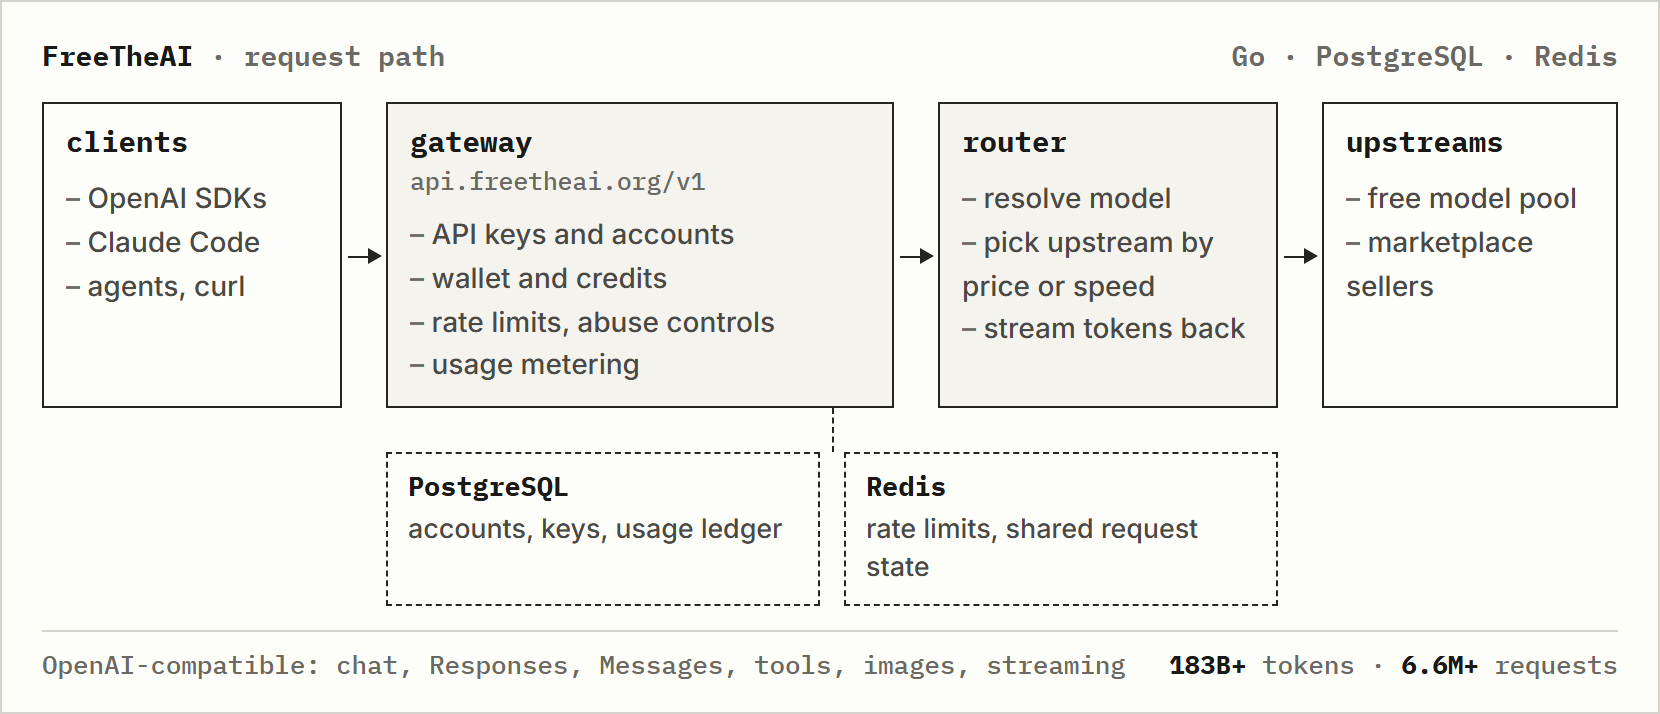
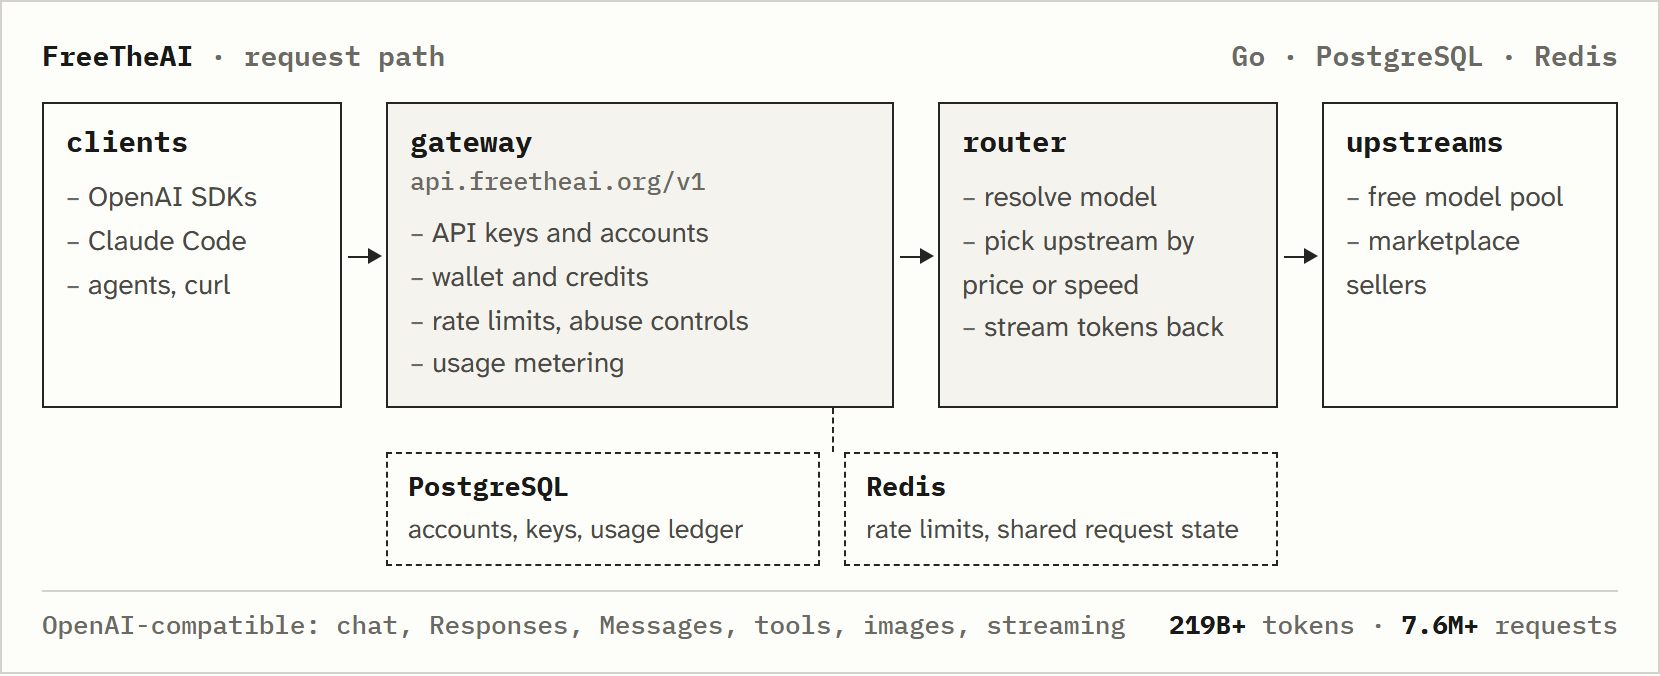
Tidy the profile README: photo header, project table, fresh numbers

diff --git a/assets/src/freetheai-diagram.html b/assets/src/freetheai-diagram.html
@@ -4,7 +4,7 @@
 <meta charset="utf-8">
 <link rel="preconnect" href="https://fonts.googleapis.com">
 <link rel="preconnect" href="https://fonts.gstatic.com" crossorigin>
-<link href="https://fonts.googleapis.com/css2?family=IBM+Plex+Mono:wght@400;500;600;700&family=Inter:wght@400;500;600;700&display=block" rel="stylesheet">
+<link href="https://fonts.googleapis.com/css2?family=IBM+Plex+Mono:wght@400;500;600;700&family=Atkinson+Hyperlegible+Next:wght@400;600&display=block" rel="stylesheet">
 <style>
   :root {
     --bg: #fdfdf9; --ink: #191918; --muted: #4a4945; --quiet: #6b6963;
@@ -18,7 +18,7 @@
   body { background: transparent; }
   .wrap {
     width: 830px; padding: 18px 20px 14px; background: var(--bg); color: var(--ink);
-    border: 1px solid var(--soft); font-family: "Inter", Arial, sans-serif;
+    border: 1px solid var(--soft); font-family: "Atkinson Hyperlegible Next", "Segoe UI", sans-serif;
   }
   .title { display: flex; justify-content: space-between; align-items: baseline;
     font: 600 14.0px/1.3 "IBM Plex Mono", Consolas, monospace; color: var(--quiet); }
@@ -29,7 +29,7 @@
   .box h3 { font: 700 14.6px/1.25 "IBM Plex Mono", Consolas, monospace; }
   .box .host { margin-top: 2px; font: 500 12.3px/1.3 "IBM Plex Mono", Consolas, monospace; color: var(--quiet); }
   .box ul { list-style: none; padding: 0; margin-top: 8px; }
-  .box li { font: 500 14.0px/1.55 "Inter", Arial, sans-serif; color: var(--muted); }
+  .box li { font: 500 14.0px/1.55 "Atkinson Hyperlegible Next", "Segoe UI", sans-serif; color: var(--muted); }
   .box li::before { content: "– "; color: var(--quiet); }
   .arrow { position: relative; }
   .arrow::before { content: ""; position: absolute; left: 3px; right: 6px; top: 50%; border-top: 1.5px solid var(--line); }
@@ -40,7 +40,7 @@
   .drop::before { content: ""; position: absolute; top: 0; left: 50%; height: 22px; border-left: 1.5px dashed var(--line); }
   .store { border: 1.5px dashed var(--line); padding: 8px 10px; }
   .store h4 { font: 700 13.4px/1.25 "IBM Plex Mono", Consolas, monospace; }
-  .store p { margin-top: 3px; font: 500 13.4px/1.45 "Inter", Arial, sans-serif; color: var(--muted); }
+  .store p { margin-top: 3px; font: 500 13.4px/1.45 "Atkinson Hyperlegible Next", "Segoe UI", sans-serif; color: var(--muted); }
   .foot { margin-top: 12px; padding-top: 8px; border-top: 1px solid var(--soft);
     display: flex; justify-content: space-between; font: 500 12.9px/1.4 "IBM Plex Mono", Consolas, monospace; color: var(--quiet); }
   .foot b { color: var(--ink); font-weight: 700; }

diff --git a/README.md b/README.md
@@ -1,72 +1,69 @@
+<img src="assets/vibhek-soni.jpg" align="right" width="190" alt="Photo of Vibhek Soni">
+
 # Vibhek Soni
 
-**Backend engineer in New York.** I build API infrastructure and security tools, usually by taking a protocol apart first and building on what I learn.
+**Backend engineer in New York.** I build API infrastructure and security tools. Most of them start with me taking a protocol apart to see how it really works.
 
-**Open to** backend, AI infrastructure, and security roles · [vibheksoni@engineer.com](mailto:vibheksoni@engineer.com) · [Portfolio](https://vibheksoni.com) · [LinkedIn](https://www.linkedin.com/in/vibheksoni/)
+I'm open to backend, AI infrastructure and security roles.
 
-**Now:** building FreeTheAI's marketplace: one wallet, many model providers, routing by price or speed.
+[vibheksoni.com](https://vibheksoni.com/) · [vibheksoni@engineer.com](mailto:vibheksoni@engineer.com) · [LinkedIn](https://www.linkedin.com/in/vibheksoni/) · [X](https://x.com/ImVibhek)
 
-## Selected work
+<br clear="right">
 
-### FreeTheAI · free AI API and model marketplace, built in Go
+## FreeTheAI
 
-**183B+ tokens and 6.6M+ requests served**, per the [public stats page](https://freetheai.org/stats). One OpenAI-compatible API with free models, paid plans for higher usage, and a marketplace where sellers list models at their own prices. I built and run the gateway: API keys and accounts, wallet and credits, rate limits, abuse controls, usage metering, and model routing. [freetheai.org](https://freetheai.org/) · [Docs](https://freetheai.org/docs) · [Status](https://freetheai.org/status)
+A free AI API and model marketplace behind one OpenAI-compatible endpoint. Free models cover most people and paid plans cover heavier use. Sellers can list their own models at their own prices.
+
+It has served **over 219 billion tokens across 7.6 million requests** ([public stats](https://freetheai.org/stats)). I built and run the Go gateway that handles API keys and accounts, the wallet and credits, rate limits, abuse controls, usage metering and routing by price or speed.
+
+[freetheai.org](https://freetheai.org/) · [Docs](https://freetheai.org/docs) · [Status](https://freetheai.org/status)
 
 <picture>
   <source media="(prefers-color-scheme: dark)" srcset="assets/freetheai-dark.png">
-  <img src="assets/freetheai-light.png" width="830" alt="FreeTheAI request path: clients such as OpenAI SDKs, Claude Code, and curl call the Go gateway at api.freetheai.org/v1, which handles API keys, wallet and credits, rate limits, abuse controls, and usage metering. A router resolves the model, picks an upstream by price or speed, and streams tokens back from a free model pool or marketplace sellers. PostgreSQL stores accounts, keys, and the usage ledger; Redis holds rate limits and shared request state.">
+  <img src="assets/freetheai-light.png" width="830" alt="FreeTheAI request path: clients such as OpenAI SDKs, Claude Code and curl call the Go gateway at api.freetheai.org/v1, which handles API keys, wallet and credits, rate limits, abuse controls and usage metering. A router resolves the model, picks an upstream by price or speed and streams tokens back from a free model pool or marketplace sellers. PostgreSQL stores accounts, keys and the usage ledger. Redis holds rate limits and shared request state.">
 </picture>
 
-### stealth-browser-mcp · browser automation for AI agents
+## Other work
 
-**2.1k+ stars, 296 forks.** An MCP server that lets agents drive a real Chrome browser over the DevTools Protocol: navigation, network hooks, DOM extraction, and UI cloning. Python, FastMCP. [Repo](https://github.com/vibheksoni/stealth-browser-mcp)
-
-### UniClaudeProxy · one Claude Code client, any model backend
-
-FastAPI proxy that translates the Anthropic API to OpenAI, Gemini, DeepSeek, and Ollama, with streaming and tool calling. [Repo](https://github.com/vibheksoni/UniClaudeProxy)
-
-### unbuned · JavaScript recovery from Bun executables
-
-Reverse engineering tool that extracts the JavaScript bundled into Bun-compiled binaries, for malware analysis and code recovery. Zero dependencies. [Repo](https://github.com/vibheksoni/unbuned)
-
-### secrets.wtf · exposed AI infrastructure index
-
-**181 exposed Ollama and LM Studio hosts** found through internet-wide scanning, listed with remediation steps. Research write-ups on [OpenDoors](https://opendoors.wtf/). [Site](https://secrets.wtf/)
+| Project | What it does | Built with |
+| :-- | :-- | :-- |
+| [stealth-browser-mcp](https://github.com/vibheksoni/stealth-browser-mcp) | Lets AI agents drive a real Chrome browser for navigation, network hooks, DOM extraction and UI cloning. Over 3,200 stars and 400 forks. | Python, FastMCP, CDP |
+| [secrets.wtf](https://secrets.wtf/) | Index of 181 Ollama and LM Studio hosts left open on the internet, each with steps to lock it down. Write-ups live on [OpenDoors](https://opendoors.wtf/). | Internet-wide scanning, static site |
+| [UniClaudeProxy](https://github.com/vibheksoni/UniClaudeProxy) | Lets Claude Code talk to OpenAI, Gemini, DeepSeek and Ollama with streaming and tool calls intact. | Python, FastAPI |
+| [unbuned](https://github.com/vibheksoni/unbuned) | Pulls the JavaScript back out of Bun-compiled executables for malware analysis and code recovery. | Python |
 
 <details>
-<summary><strong>More projects</strong></summary>
+<summary><b>More projects</b></summary>
+<br>
 
-**Developer tools**
-
-- **t3router:** Rust terminal client for multi-model chat with usage tracking. [Repo](https://github.com/vibheksoni/t3router)
-- **axiomtrade-rs:** async Rust trading API SDK with WebSocket streaming. [Repo](https://github.com/vibheksoni/axiomtrade-rs)
-- **VerbalCodeAI:** local code indexing and search from the terminal. [Repo](https://github.com/vibheksoni/VerbalCodeAi)
-- **quickcontext:** local code context engine (Rust parsing, Python indexing). [Repo](https://github.com/vibheksoni/quickcontext)
-- **pypi-query-mcp-server:** PyPI metadata and dependency lookups over MCP. [Repo](https://github.com/vibheksoni/pypi-query-mcp-server)
-- **crawl:** async web search, fetch, and screenshot toolkit with MCP. [Repo](https://github.com/vibheksoni/crawl)
-- **Stock Assist:** AI stock research SaaS (Flask, Redis, MySQL, WebSockets) that served 46 users. [Repo](https://github.com/vibheksoni/stock-assist)
-
-**Security research**
-
-- **reversing-utils:** reverse engineering helpers. [Repo](https://github.com/vibheksoni/reversing-utils)
-- **dma-spoofer:** Rust research into Windows hardware identifier spoofing over DMA. [Repo](https://github.com/vibheksoni/dma-spoofer)
-- **ferrox:** Rust infostealer proof of concept. [Repo](https://github.com/vibheksoni/ferrox)
+| Project | What it does |
+| :-- | :-- |
+| [t3router](https://github.com/vibheksoni/t3router) | Terminal client for multi-model chat with usage tracking. Rust. |
+| [axiomtrade-rs](https://github.com/vibheksoni/axiomtrade-rs) | Async trading API SDK with WebSocket streaming. Rust. |
+| [VerbalCodeAI](https://github.com/vibheksoni/VerbalCodeAi) | Local code indexing and search from the terminal. Python. |
+| [quickcontext](https://github.com/vibheksoni/quickcontext) | Local code context engine with Rust parsing and Python indexing. |
+| [pypi-query-mcp-server](https://github.com/vibheksoni/pypi-query-mcp-server) | PyPI metadata and dependency lookups over MCP. Python. |
+| [crawl](https://github.com/vibheksoni/crawl) | Async web search, fetch and screenshot toolkit with an MCP server. Python. |
+| [Stock Assist](https://github.com/vibheksoni/stock-assist) | AI stock research app that served 46 users. Flask, Redis, MySQL. |
+| [reversing-utils](https://github.com/vibheksoni/reversing-utils) | Helpers for reverse engineering work. |
+| [dma-spoofer](https://github.com/vibheksoni/dma-spoofer) | Research into Windows hardware ID spoofing over DMA. Rust. |
+| [ferrox](https://github.com/vibheksoni/ferrox) | Infostealer proof of concept for security research. Rust. |
 
 </details>
 
 ## Stack
 
-**Languages:** Python, Go, Rust, C, SQL<br>
-**Backend:** FastAPI, Flask, Gin, PostgreSQL, Redis, WebSockets, Docker, Linux<br>
-**Security:** reverse engineering, protocol analysis, network scanning, iptables
+**Languages** · Python, Go, Rust, C, SQL<br>
+**Backend** · FastAPI, Flask, Gin, PostgreSQL, Redis, WebSockets, Docker, Linux<br>
+**Security** · reverse engineering, protocol analysis, network scanning, iptables
 
-## Education and certifications
+## Education
 
-**B.S. Computer Science**, Western Governors University, Sep 2026<br>
-**ITIL 4 Foundation**, PeopleCert, Aug 2026 · [verify](https://badges.peoplecert.org/Badge/en/2/3CCF0E54-7F7F-40A5-A9AC-BF1FB204B1AA)<br>
-**Linux Essentials**, Linux Professional Institute, Jul 2026 · [verify](https://www.credly.com/badges/60d6cd3d-fbda-4552-8f37-b6ea79a85471)<br>
-**Introduction to Cybersecurity**, Cisco, Mar 2021 · [verify](https://www.credly.com/badges/6b8b3185-bd04-405e-92ca-134c70312e95)
+**B.S. Computer Science** · Western Governors University · Sep 2026<br>
+**ITIL 4 Foundation** · PeopleCert · Aug 2026 · [verify](https://badges.peoplecert.org/Badge/en/2/3CCF0E54-7F7F-40A5-A9AC-BF1FB204B1AA)<br>
+**Linux Essentials** · Linux Professional Institute · Jul 2026 · [verify](https://www.credly.com/badges/60d6cd3d-fbda-4552-8f37-b6ea79a85471)<br>
+**Introduction to Cybersecurity** · Cisco · Mar 2021 · [verify](https://www.credly.com/badges/6b8b3185-bd04-405e-92ca-134c70312e95)
 
 ## Elsewhere
 
-[vibheksoni.com](https://vibheksoni.com/) · [FreeTheAI](https://freetheai.org/) · [secrets.wtf](https://secrets.wtf/) · [OpenDoors](https://opendoors.wtf/) (blog) · [LinkedIn](https://www.linkedin.com/in/vibheksoni/) · [X](https://x.com/ImVibhek) · [YouTube](https://www.youtube.com/@vibheksoni) · [Instagram](https://www.instagram.com/nyc.vibhek/) · [Buy Me a Coffee](https://buymeacoffee.com/vibheksoni)
+[vibheksoni.com](https://vibheksoni.com/) · [FreeTheAI](https://freetheai.org/) · [secrets.wtf](https://secrets.wtf/) · [OpenDoors](https://opendoors.wtf/) · [LinkedIn](https://www.linkedin.com/in/vibheksoni/) · [X](https://x.com/ImVibhek) · [YouTube](https://www.youtube.com/@vibheksoni) · [Instagram](https://www.instagram.com/nyc.vibhek/) · [Buy Me a Coffee](https://buymeacoffee.com/vibheksoni)
